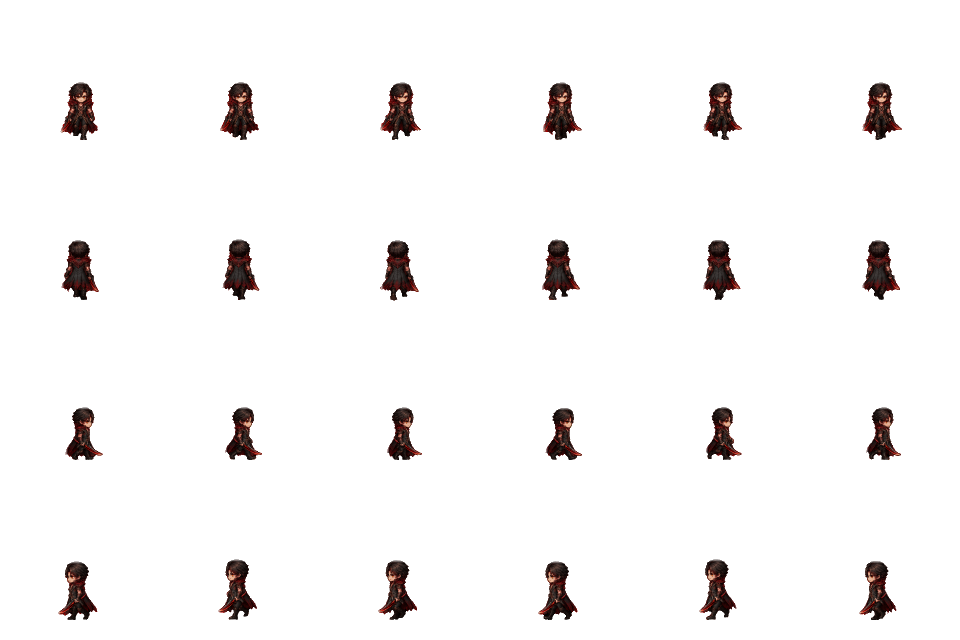
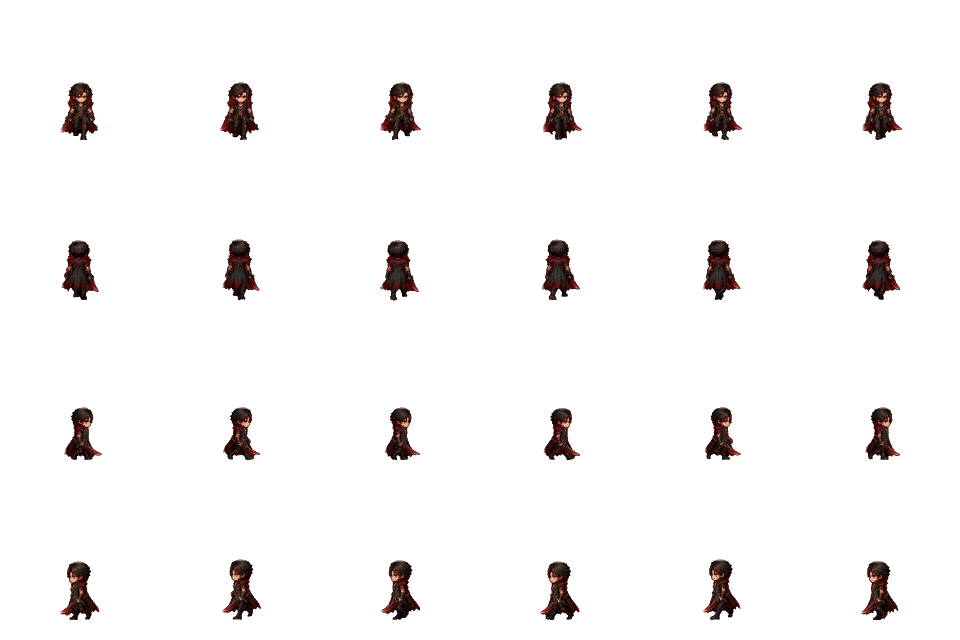
WR walk: side frames centred on their feet (build-player centerFeet) — the body sat ~3 px ahead of its shadow, so it looked like the body led the legs

diff --git a/tools/build-player.js b/tools/build-player.js
@@ -117,7 +117,7 @@ const WR = 'desgin/class cr/UB/WR/';
 // headMatch: the attack / skill sheets were drawn with a bigger head than the walk -> sized by head width, not body height
 PRESETS.wr = { out: 'assets/player/wr', nearestBody: true, headMatch: { ref: 1.08 }, // WALK v2 (2026-10-13): its head is drawn smaller vs the body -> ref 1.08 keeps the other sheets at their old size
    opaque: { min: 150, haze: 60 }, sheets: {
-  walk: [WR + 'WALK.png', 4, { facing: { right: 3, left: 3, flipRight: true } }], // walk v2: the right row is drawn ~10% shorter -> mirror the left row
+  walk: [WR + 'WALK.png', 4, { facing: { right: 3, left: 3, flipRight: true }, centerFeet: true }], // walk v2 (centerFeet: the body sat ~3 px ahead of its feet): the right row is drawn ~10% shorter -> mirror the left row
   atk1: [WR + 'ATK1.png', 4, { facing: { right: 3, left: 3, flipLeft: true } }], // owner: the left row slashes left with the face looking right -> mirror the right row
   atk2: [WR + 'ATK2.png', 4],
   dash: [WR + 'DASH.png', 4, { facing: { right: 2, left: 2, flipLeft: true } }], // every row of this sheet dashes RIGHT -> mirror it for the left
@@ -935,6 +935,18 @@ for (const [name, [file, rows, opt = {}]] of Object.entries(SHEETS)) {
   for (const c of opt.swapSides || []) for (let base = 0; base < rows; base += 4) for (let y = 0; y < CH; y++) {
     const a = ((base + 2) * CH + y) * sheet.width * 4 + c * CW * 4, b = ((base + 3) * CH + y) * sheet.width * 4 + c * CW * 4;
     const tmp = Buffer.from(sheet.data.subarray(a, a + CW * 4)); sheet.data.copy(sheet.data, a, b, b + CW * 4); tmp.copy(sheet.data, b);
+  }
+  // centerFeet: side-row frames are moved sideways so the feet sit on the pivot (the 'wr' walk drew the whole body ~3 px
+  // ahead of its shadow -> it looked like the body led the legs)
+  if (opt.centerFeet) for (let base = 0; base < rows; base += 4) for (const r of [base + 2, base + 3]) for (let c = 0; c < COLS; c++) {
+    const at = (x, y) => ((r * CH + y) * sheet.width + c * CW + x) * 4, d = sheet.data;
+    let s = 0, k = 0;
+    for (let y = PY - 12; y <= PY; y++) for (let x = 0; x < CW; x++) { const i = at(x, y); if (d[i + 3] > 200 && d[i] + d[i + 1] + d[i + 2] < 200) { s += x; k++; } }
+    const dx = k ? Math.round(PX - s / k) : 0;
+    if (!dx) continue;
+    const copy = Buffer.alloc(CW * CH * 4);
+    for (let y = 0; y < CH; y++) d.copy(copy, y * CW * 4, at(0, y), at(0, y) + CW * 4);
+    for (let y = 0; y < CH; y++) for (let x = 0; x < CW; x++) { const sx = x - dx, i = at(x, y); if (sx < 0 || sx >= CW) { d[i + 3] = 0; continue; } copy.copy(d, i, (y * CW + sx) * 4, (y * CW + sx) * 4 + 4); }
   }
   if (opt.bodyOnly) bodyOnly(sheet, opt.bodyOnly);
   const sides = [];

diff --git a/CLAUDE.md b/CLAUDE.md
@@ -1839,3 +1839,6 @@ Push to GitHub (`origin` = github.com/jepzaze6665-dev/EO-ver0.1, branch `main`) 
   Page tab "ผู้เล่น": search, online-only filter, sort by any column. CHAR_SLOTS exported from gameServer.js.
   `node tools/adminDemo.mjs` (launch config eclipse-admin-demo, port 5199, admin / devadmin) = the back office with 14 fake
   players in memory. admin.test 9.
+  WR walk centring (owner: "side walk: the body leads the legs"): build-player sheet option `centerFeet` = side-row frames moved
+  sideways so the feet centroid sits on the pivot; the walk v2 side row drew head + feet ~3 px ahead of the pivot (= ahead of the
+  shadow). Measured after: head -0.3 / feet -0.1 px.
